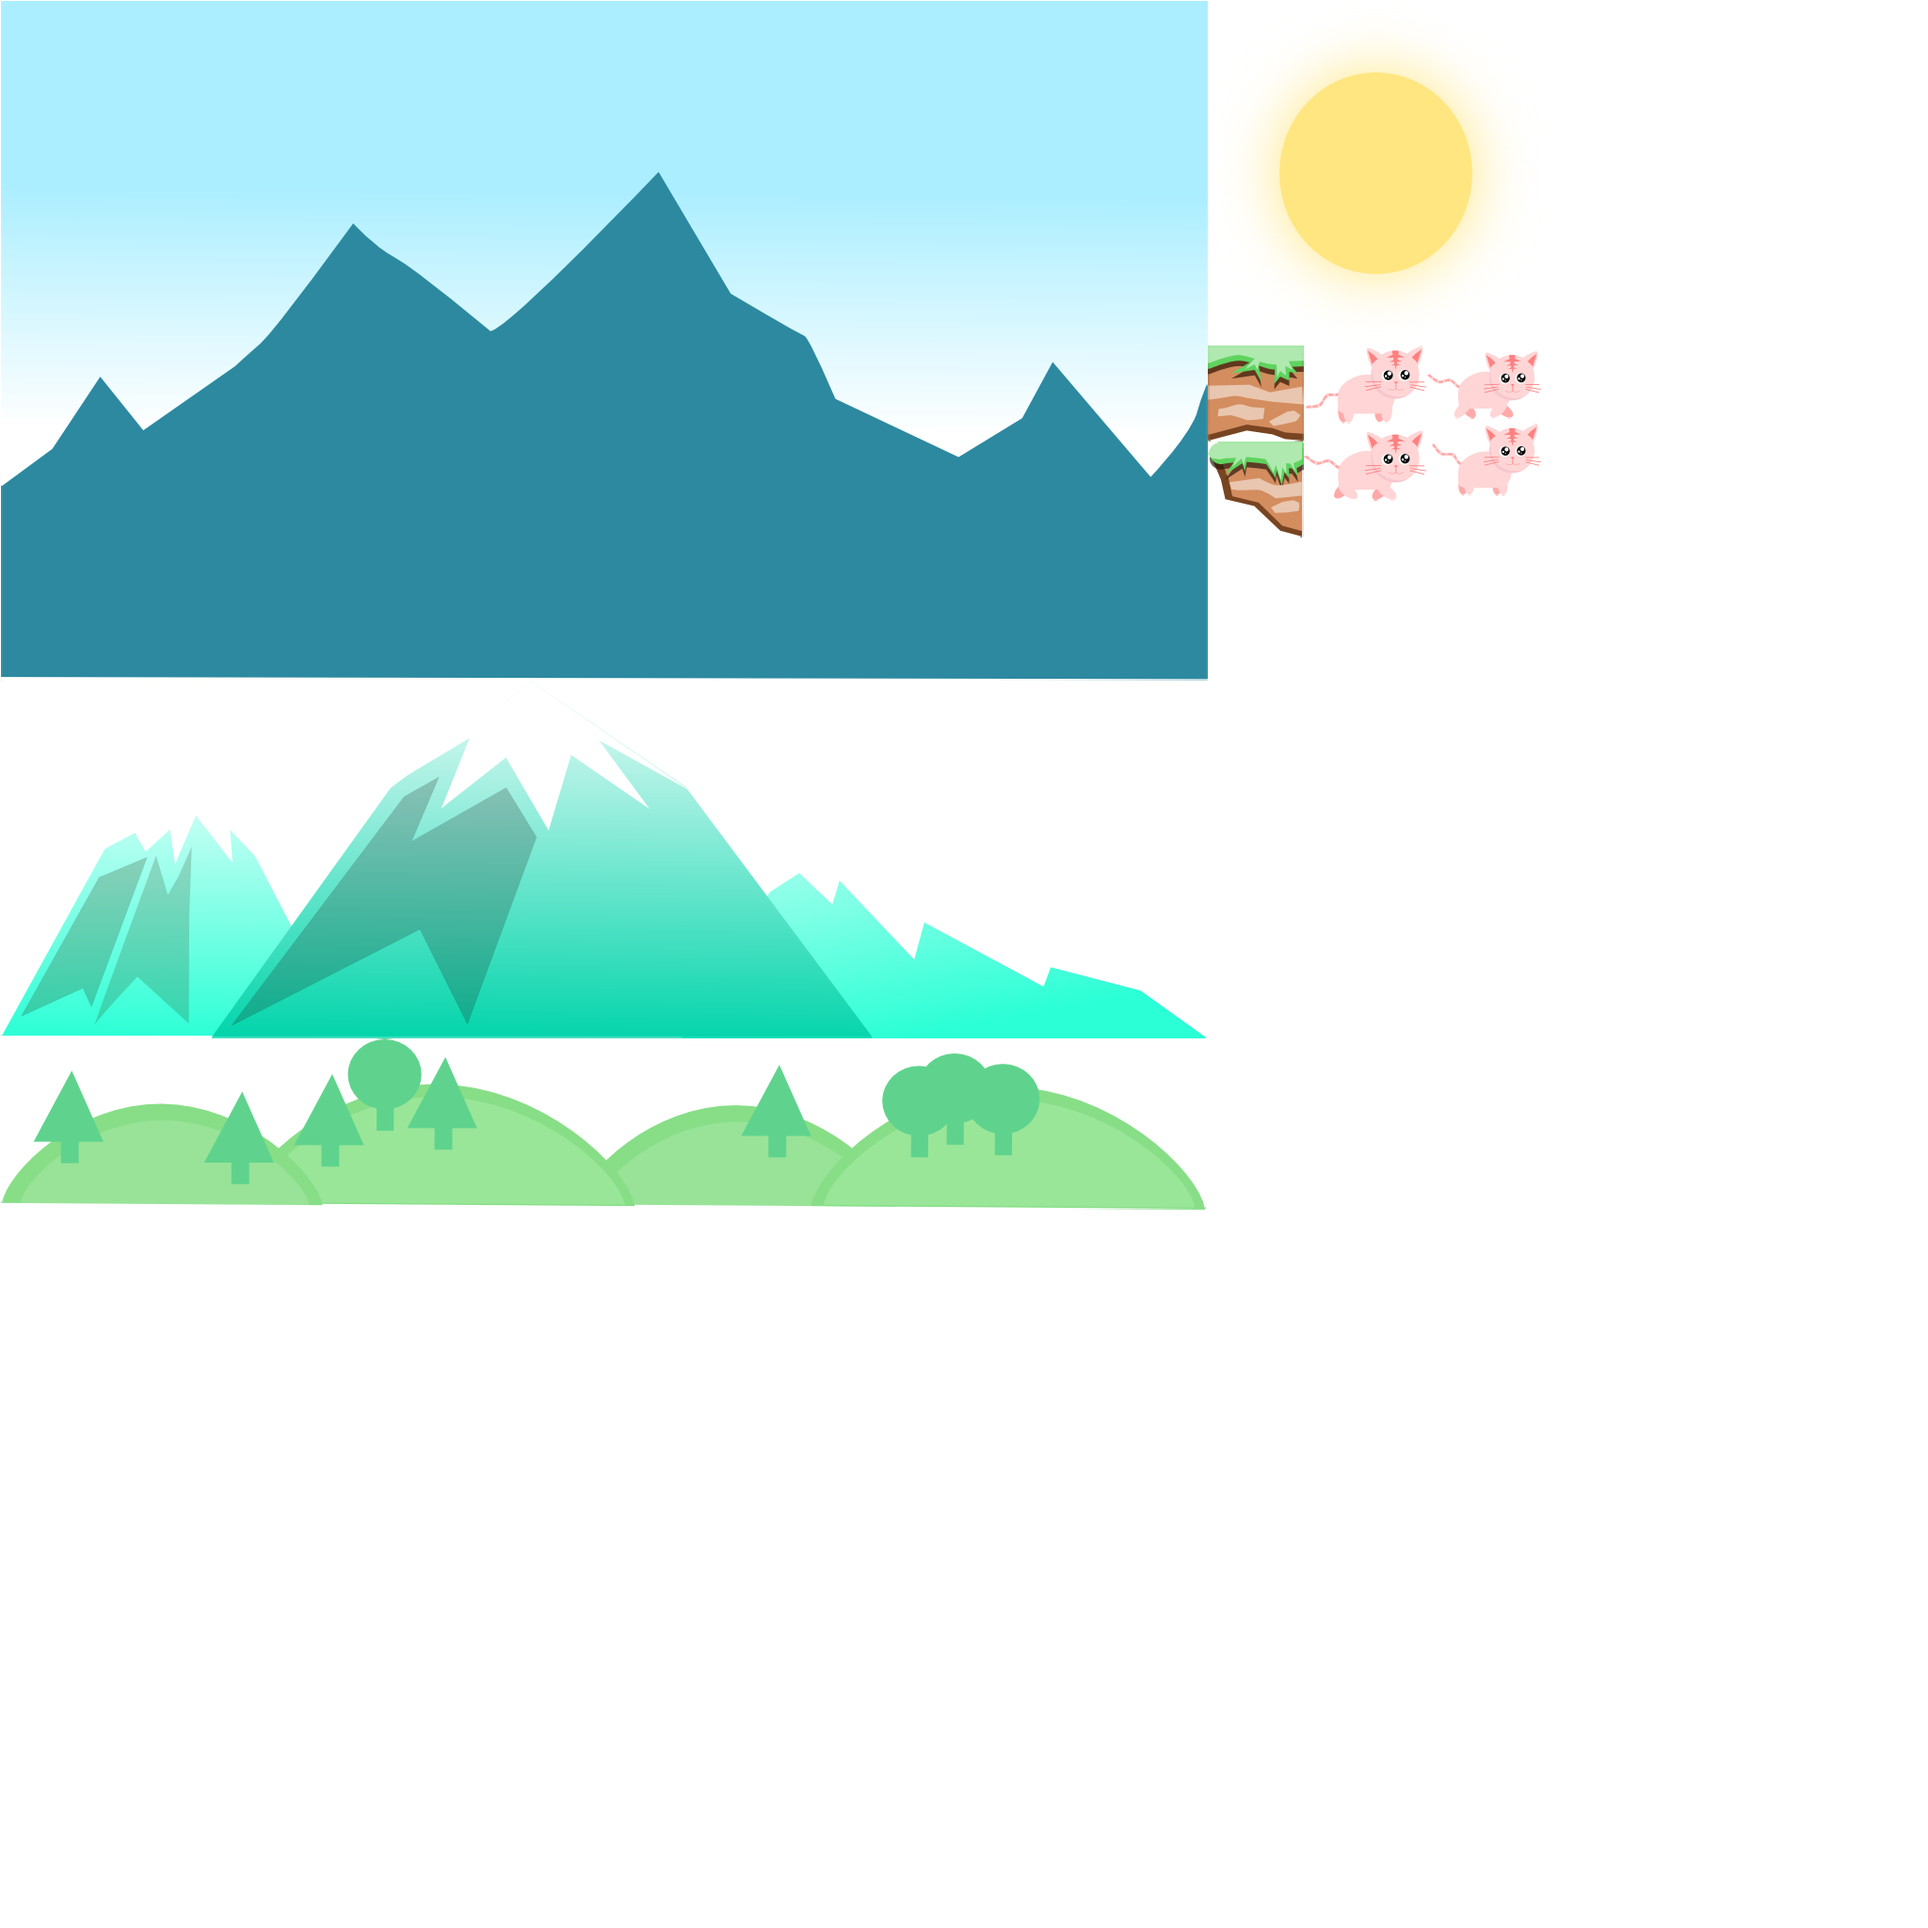
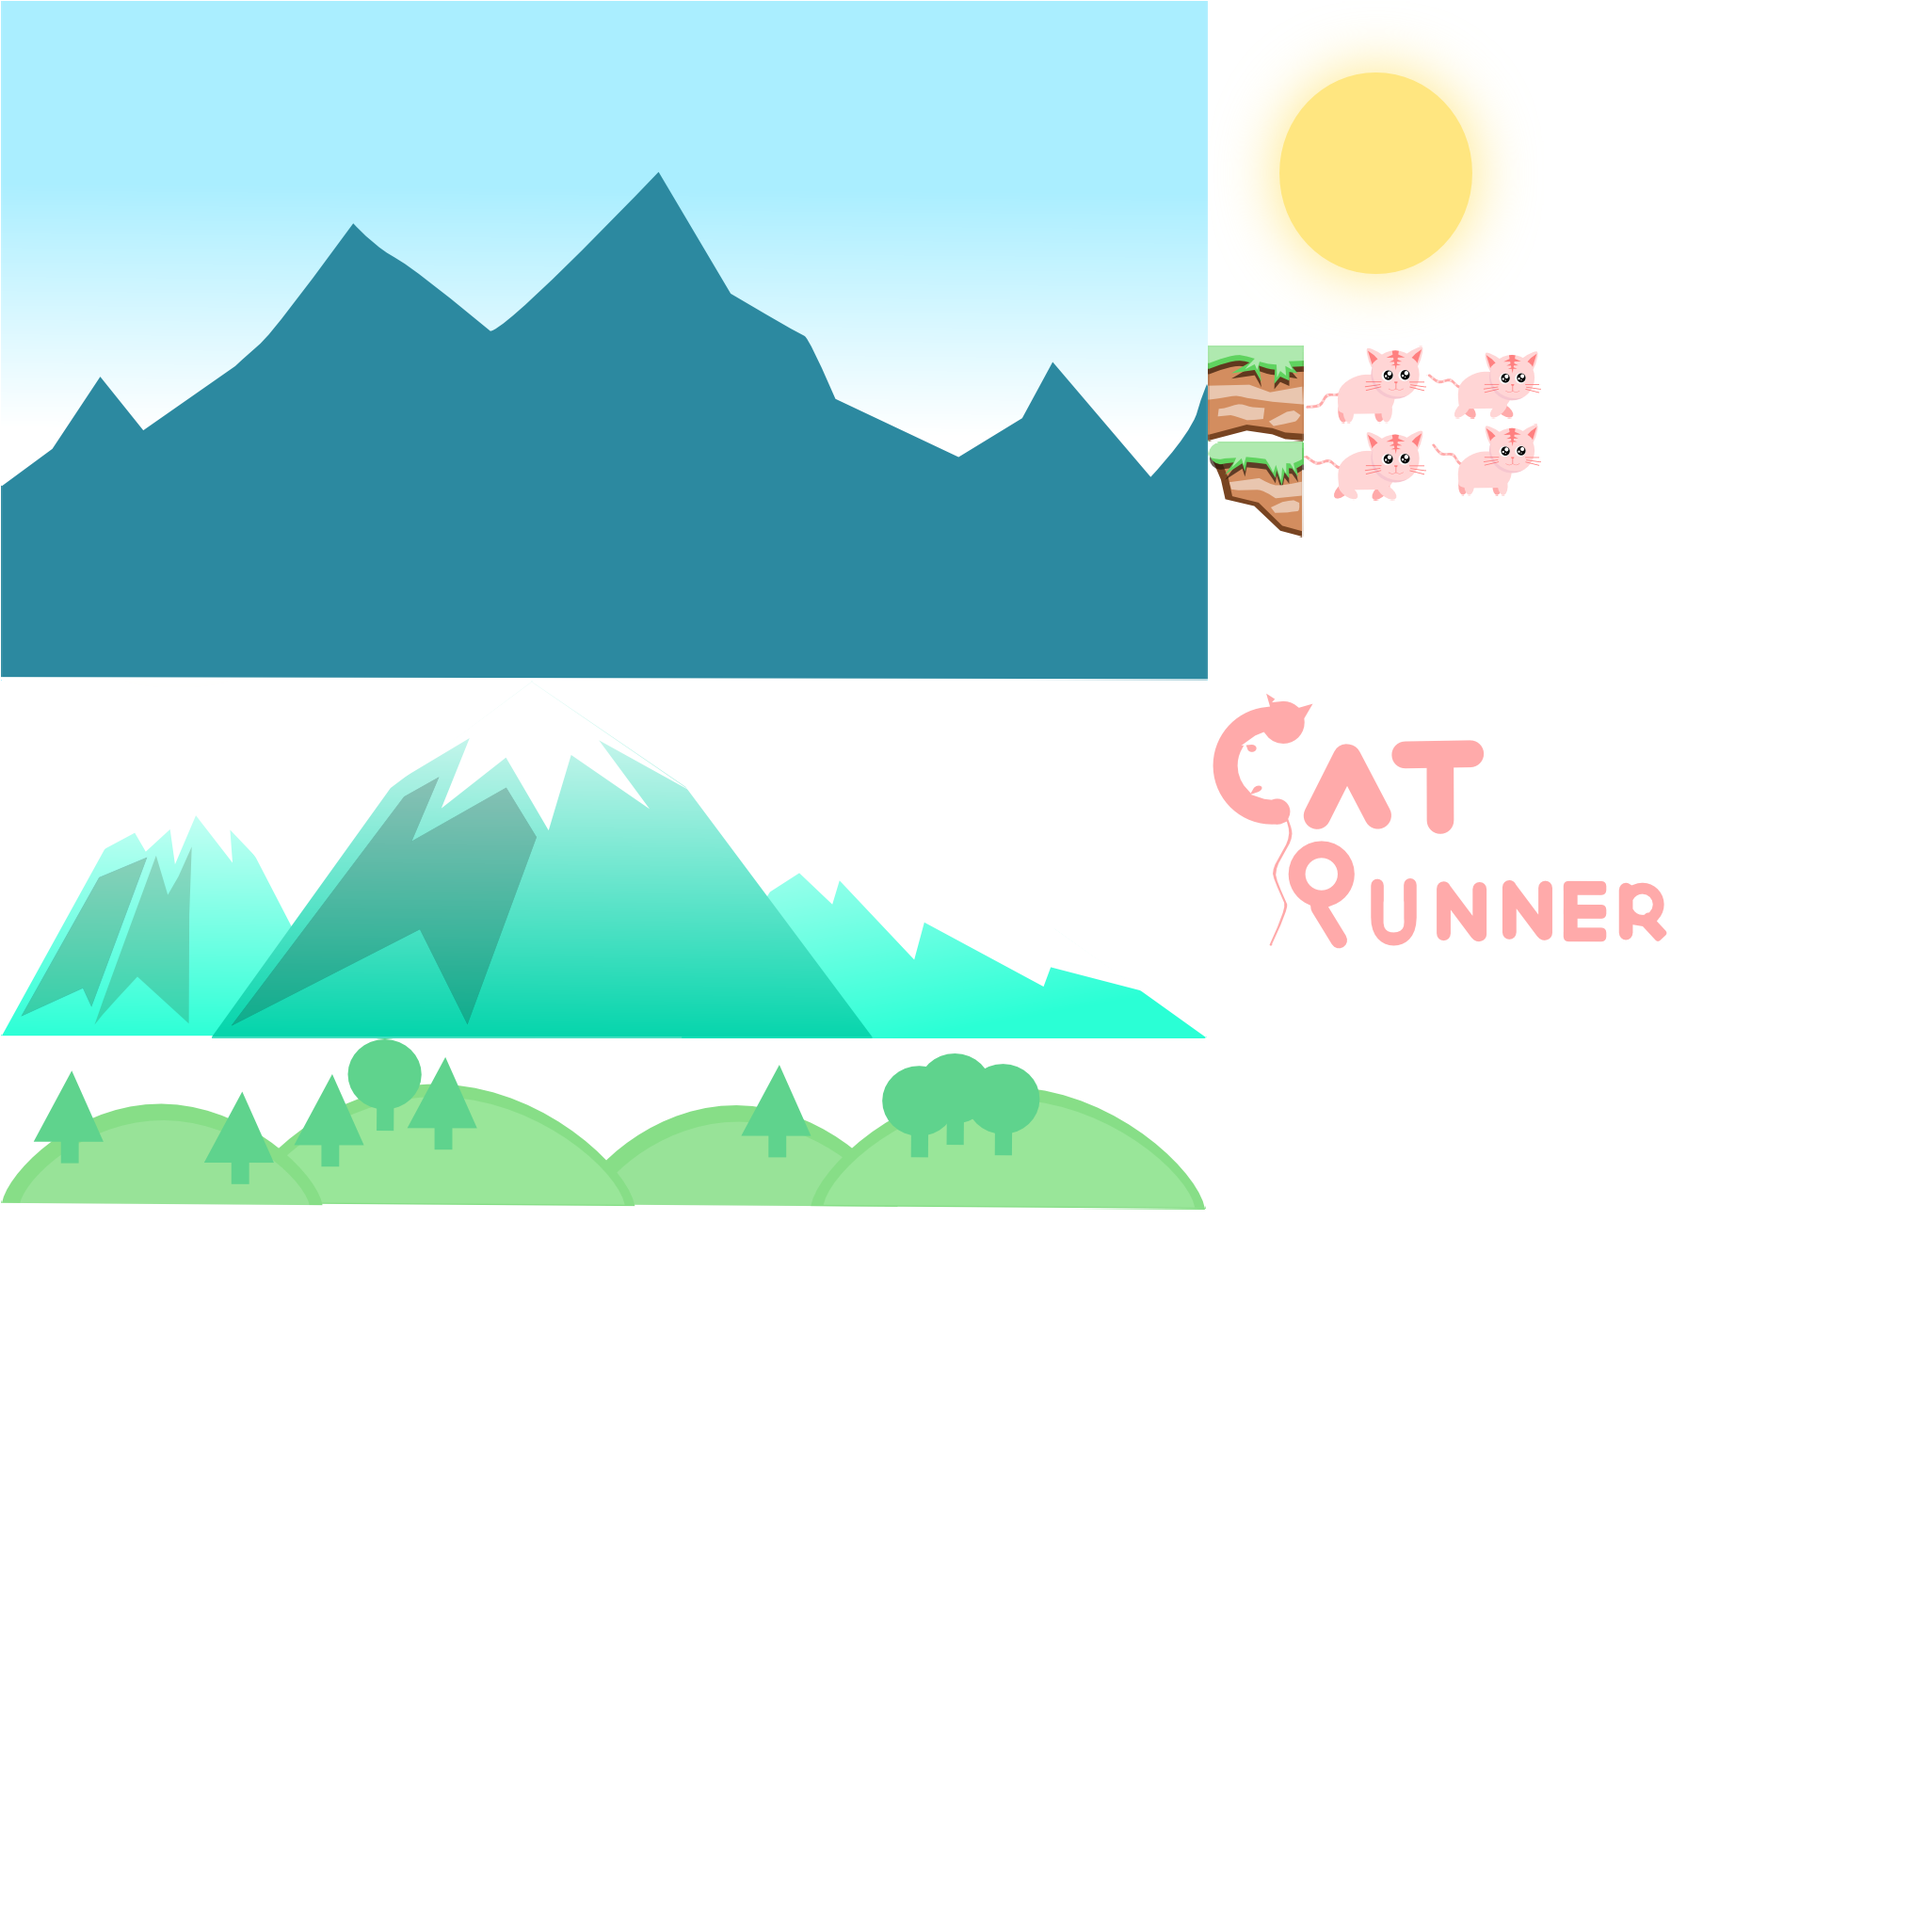
Menu ver 1

Changed region(s): [[0.625, 0.3438, 0.875, 0.5]]

diff --git a/CatRunner/core/src/com/ninehead/catrunner/MenuState.java b/CatRunner/core/src/com/ninehead/catrunner/MenuState.java
@@ -1,0 +1,43 @@
+package com.ninehead.catrunner;
+
+import com.badlogic.gdx.scenes.scene2d.Stage;
+import com.badlogic.gdx.scenes.scene2d.actions.Actions;
+import com.badlogic.gdx.scenes.scene2d.ui.Image;
+import com.badlogic.gdx.utils.viewport.FitViewport;
+
+public class MenuState {
+	private final Stage stage;
+	private final Image background;
+	private final Image mountain;
+	private final Image hill;
+	private final Image title;
+
+	public MenuState() {
+		this.stage = new Stage(new FitViewport(1280, 720));
+		this.background = new Image(Assets.getInstance().getTextureRegion(
+				"morningBackground"));
+		this.mountain = new Image(Assets.getInstance().getTextureRegion(
+				"morningMountain"));
+		this.hill = new Image(Assets.getInstance().getTextureRegion("Hill"));
+		this.title = new Image(Assets.getInstance().getTextureRegion("title"));
+
+		this.stage.addActor(this.background);
+		this.stage.addActor(this.mountain);
+		this.stage.addActor(this.hill);
+
+		this.title.setPosition((1280 - this.title.getWidth()) / 2, 720);
+		this.title.setOrigin(this.title.getWidth() / 2,
+				this.title.getHeight() / 2);
+		this.title.addAction(Actions.sequence(Actions.moveBy(0f,
+				-(this.title.getHeight() + 50), 0.5f), Actions.moveBy(0, 50,
+				0.2f), Actions.forever(Actions.sequence(
+				Actions.rotateBy(10, 1), Actions.rotateBy(-10, 1)))));
+		this.stage.addActor(this.title);
+
+	}
+
+	public void render(float _deltaTime) {
+		this.stage.act(_deltaTime);
+		this.stage.draw();
+	}
+}

diff --git a/CatRunner/core/src/com/ninehead/catrunner/CRGame.java b/CatRunner/core/src/com/ninehead/catrunner/CRGame.java
@@ -7,21 +7,27 @@ import com.badlogic.gdx.graphics.Texture;
 import com.badlogic.gdx.graphics.g2d.SpriteBatch;
 
 public class CRGame extends ApplicationAdapter {
-	SpriteBatch batch;
-	Texture img;
-	
+	private SpriteBatch batch;
+	private Texture img;
+	private MenuState menu;
+
 	@Override
-	public void create () {
-		batch = new SpriteBatch();
-		img = new Texture("badlogic.jpg");
+	public void create() {
+		Assets.getInstance().loadAllAssets();
+		this.batch = new SpriteBatch();
+		this.img = new Texture("badlogic.jpg");
+		this.menu = new MenuState();
 	}
 
 	@Override
-	public void render () {
+	public void render() {
 		Gdx.gl.glClearColor(1, 0, 0, 1);
 		Gdx.gl.glClear(GL20.GL_COLOR_BUFFER_BIT);
-		batch.begin();
-		batch.draw(img, 0, 0);
-		batch.end();
+		this.menu.render(Gdx.graphics.getDeltaTime());
+	}
+
+	@Override
+	public void dispose() {
+		Assets.getInstance().dispose();
 	}
 }

diff --git a/CatRunner/desktop/src/com/ninehead/catrunner/desktop/DesktopLauncher.java b/CatRunner/desktop/src/com/ninehead/catrunner/desktop/DesktopLauncher.java
@@ -6,7 +6,6 @@ import com.badlogic.gdx.tools.imagepacker.TexturePacker;
 import com.badlogic.gdx.tools.imagepacker.TexturePacker.Settings;
 import com.ninehead.catrunner.CRGame;
 
-
 public class DesktopLauncher {
 	private static final boolean rebuildAtlas = true;
 
@@ -19,6 +18,8 @@ public class DesktopLauncher {
 					"../android/assets/Image", "CatRunner.pack");
 		}
 		LwjglApplicationConfiguration config = new LwjglApplicationConfiguration();
+		config.width = 1280;
+		config.height = 720;
 		new LwjglApplication(new CRGame(), config);
 	}
 }

diff --git a/CatRunner/core/src/com/ninehead/catrunner/Assets.java b/CatRunner/core/src/com/ninehead/catrunner/Assets.java
@@ -33,8 +33,8 @@ public class Assets {
 		}
 	}
 
-	public TextureRegion getTextureRegion(String _name) {
-		return this.textureRegionCache.get(_name);
+	public TextureRegion getTextureRegion(String _fileName) {
+		return this.textureRegionCache.get(_fileName);
 	}
 
 	public void dispose() {
